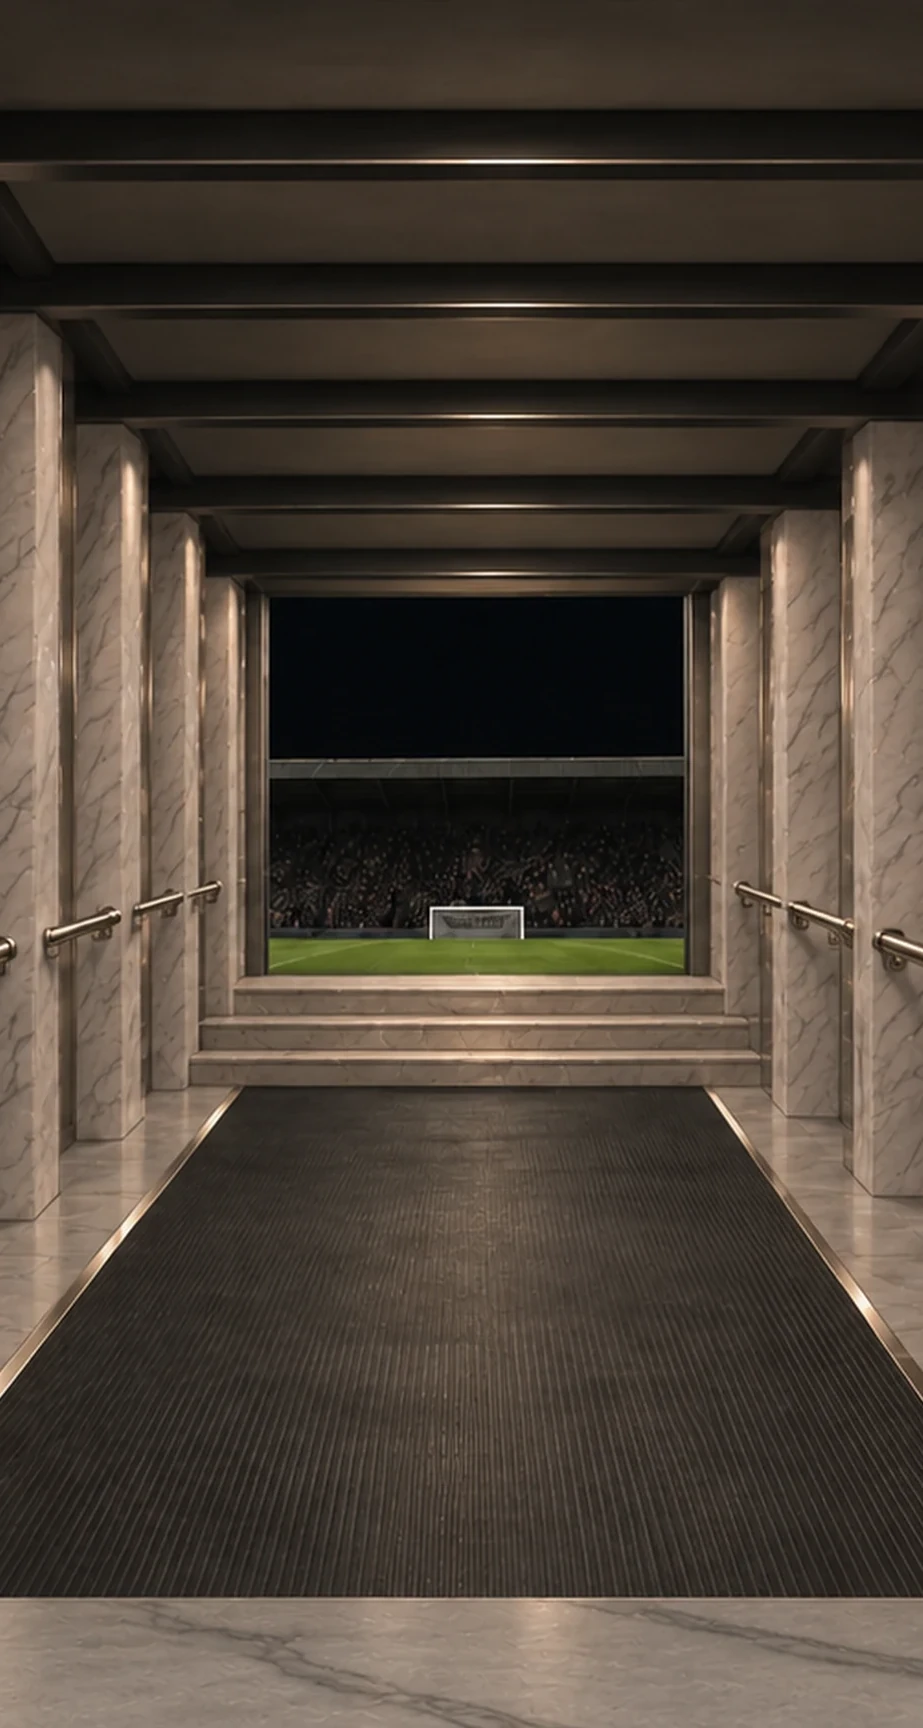
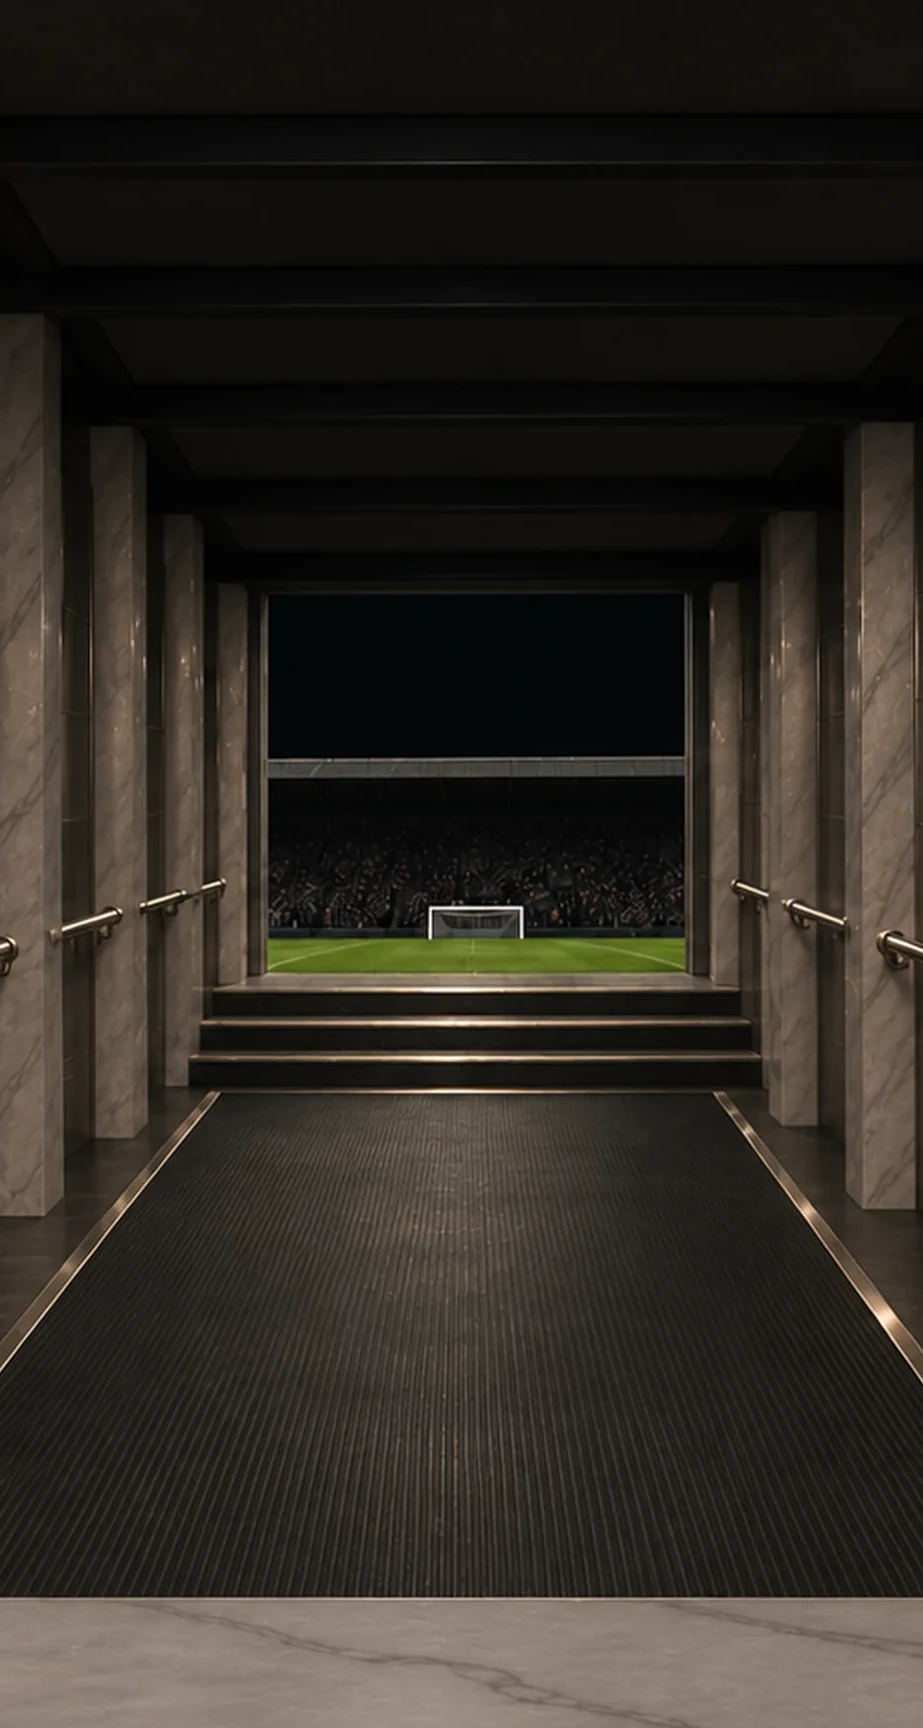
Black run sheet: HO-138..141 + HO-169 entries (Team G swatches c1777bfa, lessons applied); refresh Platinum tunnel swatch for HO-120
Claude-Session: https://claude.ai/code/session_01GU43Q4Pzep7ADdjW9oEDst

diff --git a/project-documents/hc-art/ho-premium-full/RUN_SHEET_BLACK.md b/project-documents/hc-art/ho-premium-full/RUN_SHEET_BLACK.md
@@ -466,3 +466,145 @@ Finish: real materials as a set builder would make them, handcrafted, with clean
 
 Same tall 9:16 framing as image 1, nothing cropped or extended at any edge, largest size available.
 ```
+
+## HO-138 · Premium full set 35/57: Metallic Black Clubhouse, Coaches' room, phone band repaint
+
+- Image 1: [ENV_COACHES_PHONE_HC_V3.png](https://github.com/nikahanghojjati-oss/fifa17-career-showdown2/blob/claude/project-thread-ie3afv/project-documents/hc-art/ho-premium-full/src/IMG1_ENV_COACHES_PHONE_HC_V3.png)
+- Image 2: [REF_COACHES_BLACK_SWATCH.png](https://github.com/nikahanghojjati-oss/fifa17-career-showdown2/blob/claude/project-thread-ie3afv/project-documents/hc-art/ho-premium-full/src/IMG2_REF_COACHES_BLACK_SWATCH.png) (Team G swatch c1777bfa)
+- Saves as `ENV_COACHES_PHONE_BLACK_P1`
+
+```
+Image 1 is the picture to edit. Image 2 shows only the finished materials and light of this same room in this clubhouse; match its materials, colours and light exactly, and copy nothing else from it.
+
+Keep image 1 exactly the same in camera, framing and layout: do not zoom in, crop or move the camera, and keep the same tall 9:16 shape. Change only the materials and finish of the room itself.
+
+Keep the two men exactly as they are: the same faces, hair, beards, suits, shirts, hands, pose, size and position. Do not touch them.
+
+Keep in the same places and at the same sizes: the shelf with the old balls, the small wall lamp, the window with the pitch, the counter rail, with the counter edge at exactly the same height. Everything below the counter edge stays a plain, calm stone surface in the same material as the counter.
+
+The room: A vault of blackened steel and black chrome lit by brass lamps: real machined metal and real polished granite, handcrafted.
+Walls and panels: gun-blued blackened steel with fine shadow gaps and machined chamfered edges, keeping the same panel layout; each chamfered edge catches a hairline of warm lamp light. Frames: black chrome with a thin polished gold inner line. Lamp metal: polished gold; shades stay warm cream and lit. Counter: polished black granite with a satin sheen: it shows only soft, blurred glows of the lamps and a faint dark shape of the suits, never a sharp mirror image of faces, hands or papers.
+
+Every door, shelf, niche, table and frame takes the same material it has in image 2 (blackened steel, black chrome with gold lines, or polished black granite); no wood is left anywhere in the room. The stadium, crowd, seats and pitch inside the window stay exactly as they are in image 1, not redrawn.
+
+Light: It is night. Light comes only from the same warm lamps in the same places and the floodlit stadium glow through the window. Every large surface stays near true black, deep and clean. Highlights are few, small and sharp, and always the warm gold of the lamps: hairlines on edges and pinpoint reflections, never white, never blue, never a grey sheen over a whole surface. Behind each man a broad soft warm reflection lies on the steel, clean and crisp-edged like a lamp seen in a black car door, with no glowing haze, so the black suits stand out from the wall. Reflections of the lamps in the floor and counter are dim, about a third as bright as the real lamps. The two men stay lit exactly as they are now.
+
+Objects keep their identity and their own colours and are relit by the new room.
+
+Finish: real materials, handcrafted, clean sharp detail; clear air, no fog, no glow halo, no noise grain, no streaks, no swirl or crackle patterns. No new objects and no extra lamps anywhere, no text, no logos, no people other than the two men.
+
+Same tall 9:16 framing as image 1, nothing cropped or extended at any edge, largest size available.
+```
+
+## HO-139 · Premium full set 36/57: Metallic Black Clubhouse, Players' tunnel, phone band repaint
+
+- Image 1: [ENV_TUNNEL_PHONE_HC_V3.png](https://github.com/nikahanghojjati-oss/fifa17-career-showdown2/blob/claude/project-thread-ie3afv/project-documents/hc-art/ho-premium-full/src/IMG1_ENV_TUNNEL_PHONE_HC_V3.png)
+- Image 2: [REF_TUNNEL_BLACK_SWATCH.png](https://github.com/nikahanghojjati-oss/fifa17-career-showdown2/blob/claude/project-thread-ie3afv/project-documents/hc-art/ho-premium-full/src/IMG2_REF_TUNNEL_BLACK_SWATCH.png) (Team G swatch c1777bfa)
+- Saves as `ENV_TUNNEL_PHONE_BLACK_P1`
+
+```
+Image 1 is the picture to edit. Image 2 shows only the finished materials and light of this same room in this clubhouse; match its materials, colours and light exactly, and copy nothing else from it.
+
+Keep image 1 exactly the same in camera, framing and layout: do not zoom in, crop or move the camera, and keep the same tall 9:16 shape. Change only the materials and finish of the room itself.
+
+Keep the two men exactly as they are: the same faces, hair, beards, suits, shirts, hands, pose, size and position. Do not touch them.
+
+Keep in the same places and at the same sizes: the tunnel receding to the pitch, the pillars and handrails, the counter edge, with the counter edge at exactly the same height. Everything below the counter edge stays a plain, calm stone surface in the same material as the counter.
+
+The room: A vault of blackened steel and black chrome lit by brass lamps: real machined metal and real polished granite, handcrafted.
+Walls and panels: gun-blued blackened steel with fine shadow gaps and machined chamfered edges, keeping the same panel layout; each chamfered edge catches a hairline of warm lamp light. Frames: black chrome with a thin polished gold inner line. Counter: polished black granite with a satin sheen: it shows only soft, blurred glows of the lamps and a faint dark shape of the suits, never a sharp mirror image of faces, hands or papers.
+
+Every door, shelf, niche, table and frame takes the same material it has in image 2 (blackened steel, black chrome with gold lines, or polished black granite); no wood is left anywhere in the room. The pillars keep their exact square shape, with flat faces and straight sharp corners (never round columns); they are blackened steel whose corners each catch one thin, straight, even hairline of warm light, with no teardrop, flame or lens-shaped highlights on them.
+
+Light: It is night. No lamps are visible in this picture: light comes only from the floodlit pitch at the end of the tunnel and a soft warm light along the pillar edges and handrails. Add no lamps, sconces or wall lights anywhere. Every large surface stays near true black, deep and clean. Highlights are few, small and sharp, and always the warm gold of the lamps: hairlines on edges and pinpoint reflections, never white, never blue, never a grey sheen over a whole surface. Behind each man a broad soft warm reflection lies on the steel, clean and crisp-edged like a lamp seen in a black car door, with no glowing haze, so the black suits stand out from the wall. Reflections of the lamps in the floor and counter are dim, about a third as bright as the real lamps. The two men stay lit exactly as they are now.
+
+Objects keep their identity and their own colours and are relit by the new room.
+
+Finish: real materials, handcrafted, clean sharp detail; clear air, no fog, no glow halo, no noise grain, no streaks, no swirl or crackle patterns. No new objects and no extra lamps anywhere, no text, no logos, no people other than the two men.
+
+Same tall 9:16 framing as image 1, nothing cropped or extended at any edge, largest size available.
+```
+
+## HO-140 · Premium full set 37/57: Metallic Black Clubhouse, Club room, phone band repaint
+
+- Image 1: [ENV_CLUB_PHONE_HC_V4.png](https://github.com/nikahanghojjati-oss/fifa17-career-showdown2/blob/claude/project-thread-ie3afv/project-documents/hc-art/ho-premium-full/src/IMG1_ENV_CLUB_PHONE_HC_V4.png)
+- Image 2: [REF_CLUB_BLACK_SWATCH.png](https://github.com/nikahanghojjati-oss/fifa17-career-showdown2/blob/claude/project-thread-ie3afv/project-documents/hc-art/ho-premium-full/src/IMG2_REF_CLUB_BLACK_SWATCH.png) (Team G swatch c1777bfa)
+- Saves as `ENV_CLUB_PHONE_BLACK_P1`
+- No people: check that no trace of a person appears.
+
+```
+Image 1 is the picture to edit. Image 2 shows only the finished materials and light of this same room in this clubhouse; match its materials, colours and light exactly, and copy nothing else from it.
+
+Keep image 1 exactly the same in camera, framing and layout: do not zoom in, crop or move the camera, and keep the same tall 9:16 shape. Change only the materials and finish of the room itself.
+
+Keep in the same places and at the same sizes: the two wall lamps, the window with the stadium, the panelled wall, the trophies and balls along the bottom. Everything below the counter edge stays a plain, calm stone surface in the same material as the counter.
+
+The room: A vault of blackened steel and black chrome lit by brass lamps: real machined metal and real polished granite, handcrafted.
+Walls and panels: gun-blued blackened steel with fine shadow gaps and machined chamfered edges, keeping the same panel layout; each chamfered edge catches a hairline of warm lamp light. Frames: black chrome with a thin polished gold inner line. Lamp metal: polished gold; shades stay warm cream and lit. Counter: polished black granite with a satin sheen: it shows only soft, blurred glows of the lamps, never a sharp mirror image.
+
+Every door, shelf, niche, table and frame takes the same material it has in image 2 (blackened steel, black chrome with gold lines, or polished black granite); no wood is left anywhere in the room. The stadium, crowd, seats and pitch inside the window stay exactly as they are in image 1, not redrawn.
+
+Light: It is night. Light comes only from the same warm lamps in the same places and the floodlit stadium glow through the window. Every large surface stays near true black, deep and clean. Highlights are few, small and sharp, and always the warm gold of the lamps: hairlines on edges and pinpoint reflections, never white, never blue, never a grey sheen over a whole surface. Reflections of the lamps in the floor and counter are dim, about a third as bright as the real lamps.
+
+Objects keep their identity and their own colours and are relit by the new room.
+
+Finish: real materials, handcrafted, clean sharp detail; clear air, no fog, no glow halo, no noise grain, no streaks, no swirl or crackle patterns. No new objects and no extra lamps anywhere, no text, no logos, no people.
+
+Same tall 9:16 framing as image 1, nothing cropped or extended at any edge, largest size available.
+```
+
+## HO-141 · Premium full set 38/57: Metallic Black Clubhouse, Loading tunnel, phone band repaint
+
+- Image 1: [ENV_LOADING_PHONE_HC.png](https://github.com/nikahanghojjati-oss/fifa17-career-showdown2/blob/claude/project-thread-ie3afv/project-documents/hc-art/ho-premium-full/src/IMG1_ENV_LOADING_PHONE_HC.png)
+- Image 2: [REF_LOADING_BLACK_SWATCH.png](https://github.com/nikahanghojjati-oss/fifa17-career-showdown2/blob/claude/project-thread-ie3afv/project-documents/hc-art/ho-premium-full/src/IMG2_REF_LOADING_BLACK_SWATCH.png) (Team G swatch c1777bfa)
+- Saves as `ENV_LOADING_PHONE_BLACK_P1`
+- No people: check that no trace of a person appears.
+
+```
+Image 1 is the picture to edit. Image 2 shows only the finished materials and light of this same room in this clubhouse; match its materials, colours and light exactly, and copy nothing else from it.
+
+Keep image 1 exactly the same in camera, framing and layout: do not zoom in, crop or move the camera, and keep the same tall 9:16 shape. Change only the materials and finish of the room itself.
+
+Keep in the same places and at the same sizes: the tunnel receding to the pitch, the pillars and handrails. Everything below the counter edge stays a plain, calm stone surface in the same material as the counter.
+
+The room: A vault of blackened steel and black chrome lit by brass lamps: real machined metal and real polished granite, handcrafted.
+Walls and panels: gun-blued blackened steel with fine shadow gaps and machined chamfered edges, keeping the same panel layout; each chamfered edge catches a hairline of warm lamp light. Frames: black chrome with a thin polished gold inner line. Counter: polished black granite with a satin sheen: it shows only soft, blurred glows of the lamps, never a sharp mirror image.
+
+Every door, shelf, niche, table and frame takes the same material it has in image 2 (blackened steel, black chrome with gold lines, or polished black granite); no wood is left anywhere in the room. The pillars keep their exact square shape, with flat faces and straight sharp corners (never round columns); they are blackened steel whose corners each catch one thin, straight, even hairline of warm light, with no teardrop, flame or lens-shaped highlights on them.
+
+Light: It is night. No lamps are visible in this picture: light comes only from the floodlit pitch at the end of the tunnel and a soft warm light along the pillar edges and handrails. Add no lamps, sconces or wall lights anywhere. Every large surface stays near true black, deep and clean. Highlights are few, small and sharp, and always the warm gold of the lamps: hairlines on edges and pinpoint reflections, never white, never blue, never a grey sheen over a whole surface. Reflections of the lamps in the floor and counter are dim, about a third as bright as the real lamps.
+
+Objects keep their identity and their own colours and are relit by the new room.
+
+Finish: real materials, handcrafted, clean sharp detail; clear air, no fog, no glow halo, no noise grain, no streaks, no swirl or crackle patterns. No new objects and no extra lamps anywhere, no text, no logos, no people.
+
+Same tall 9:16 framing as image 1, nothing cropped or extended at any edge, largest size available.
+```
+
+## HO-169 · Premium Club room sideways 2/3: Metallic Black Clubhouse, phone sideways
+
+- Image 1: [ENV_CLUB_SIDEWAYS_HC_V4.png](https://github.com/nikahanghojjati-oss/fifa17-career-showdown2/blob/claude/project-thread-ie3afv/project-documents/hc-art/ho-premium-full/src/IMG1_ENV_CLUB_SIDEWAYS_HC_V4.png)
+- Image 2: [REF_CLUB_BLACK_SWATCH.png](https://github.com/nikahanghojjati-oss/fifa17-career-showdown2/blob/claude/project-thread-ie3afv/project-documents/hc-art/ho-premium-full/src/IMG2_REF_CLUB_BLACK_SWATCH.png) (Team G swatch c1777bfa)
+- Saves as `ENV_CLUB_SIDEWAYS_BLACK_P1`
+- No people: check that no trace of a person appears.
+
+```
+Image 1 is the picture to edit. Image 2 shows only the finished materials and light of this same room in this clubhouse; match its materials, colours and light exactly, and copy nothing else from it.
+
+Keep image 1 exactly the same in camera, framing and layout: do not zoom in, crop or move the camera, and keep the same 16:9 wide shape. Change only the materials and finish of the room itself. There are no people in this room; keep it empty of people.
+
+Keep in the same places and at the same sizes: the two wall lamps with pleated shades along the top, the wide window on the left with the floodlit stadium, the two leather armchairs and the low table under the window, the tall wall panel on the right with the one hanging pennant banner, the gold trophy and the old leather ball on the low shelf at the lower right, and the counter strip along the bottom at exactly the same height.
+
+The room: A vault of blackened steel and black chrome lit by brass lamps: real machined metal and real polished granite, handcrafted.
+The wall panels become gun-blued blackened steel with fine shadow gaps and machined chamfered edges, keeping the same panel layout; each chamfered edge catches a hairline of warm lamp light. The back wall below the window becomes gun-blued blackened steel with fine shadow gaps and machined chamfered edges, keeping the same panel layout; each chamfered edge catches a hairline of warm lamp light. The window frames become black chrome with a thin polished gold inner line. The low shelf becomes blackened steel with a polished gold edge. The banner rod and lamp arms become polished gold; the shades stay warm cream and lit. The floor becomes mirror-polished black granite with dim true reflections of the lamps. The counter strip becomes polished black granite with a satin sheen: it shows only soft, blurred glows of the lamps, never a sharp mirror image.
+
+Every door, shelf, niche, table and frame takes the same material it has in image 2 (blackened steel, black chrome with gold lines, or polished black granite); no wood is left anywhere in the room. The stadium, crowd, seats and pitch inside the window stay exactly as they are in image 1, not redrawn.
+
+Light: It is night. Light comes only from the same warm lamps in the same places and the floodlit stadium glow through the window. Every large surface stays near true black, deep and clean. Highlights are few, small and sharp, and always the warm gold of the lamps: hairlines on edges and pinpoint reflections, never white, never blue, never a grey sheen over a whole surface. Reflections of the lamps in the floor and counter are dim, about a third as bright as the real lamps.
+
+Objects keep their identity and their own colours (the gold trophies, the old leather balls, the leather armchairs, the dark banners) and are relit by the new room, each with a real soft contact shadow.
+
+Finish: real materials as a set builder would make them, handcrafted, with clean sharp detail; the air is clear, with no fog, no glow halo, no noise grain, no streaks and no swirl or crackle patterns: every texture is a straight real one. No new objects and no extra lamps anywhere, no text, no logos, no people.
+
+Same wide framing as image 1 (about 2.16:1), nothing cropped or extended at any edge, largest size available.
+```
